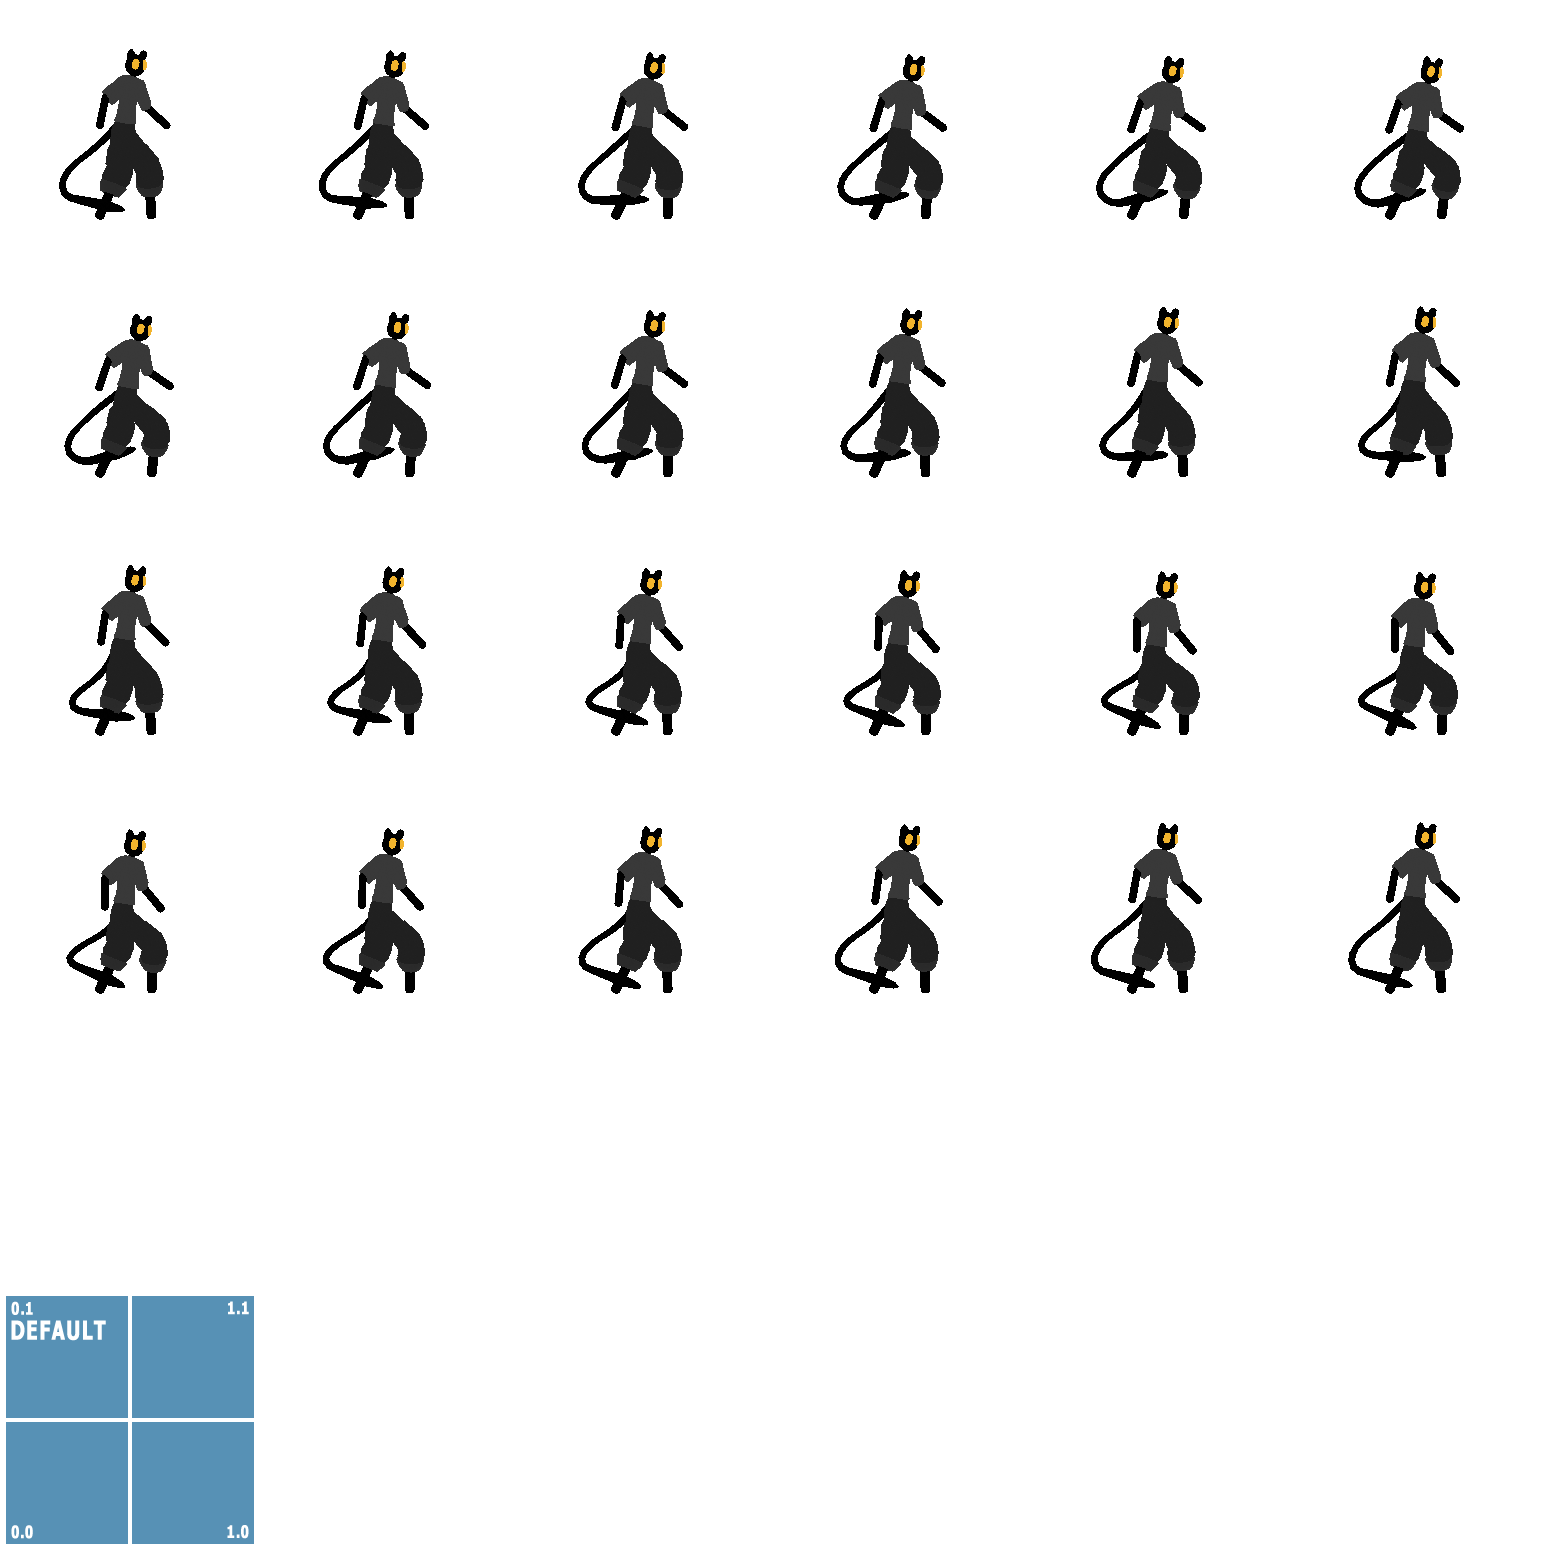
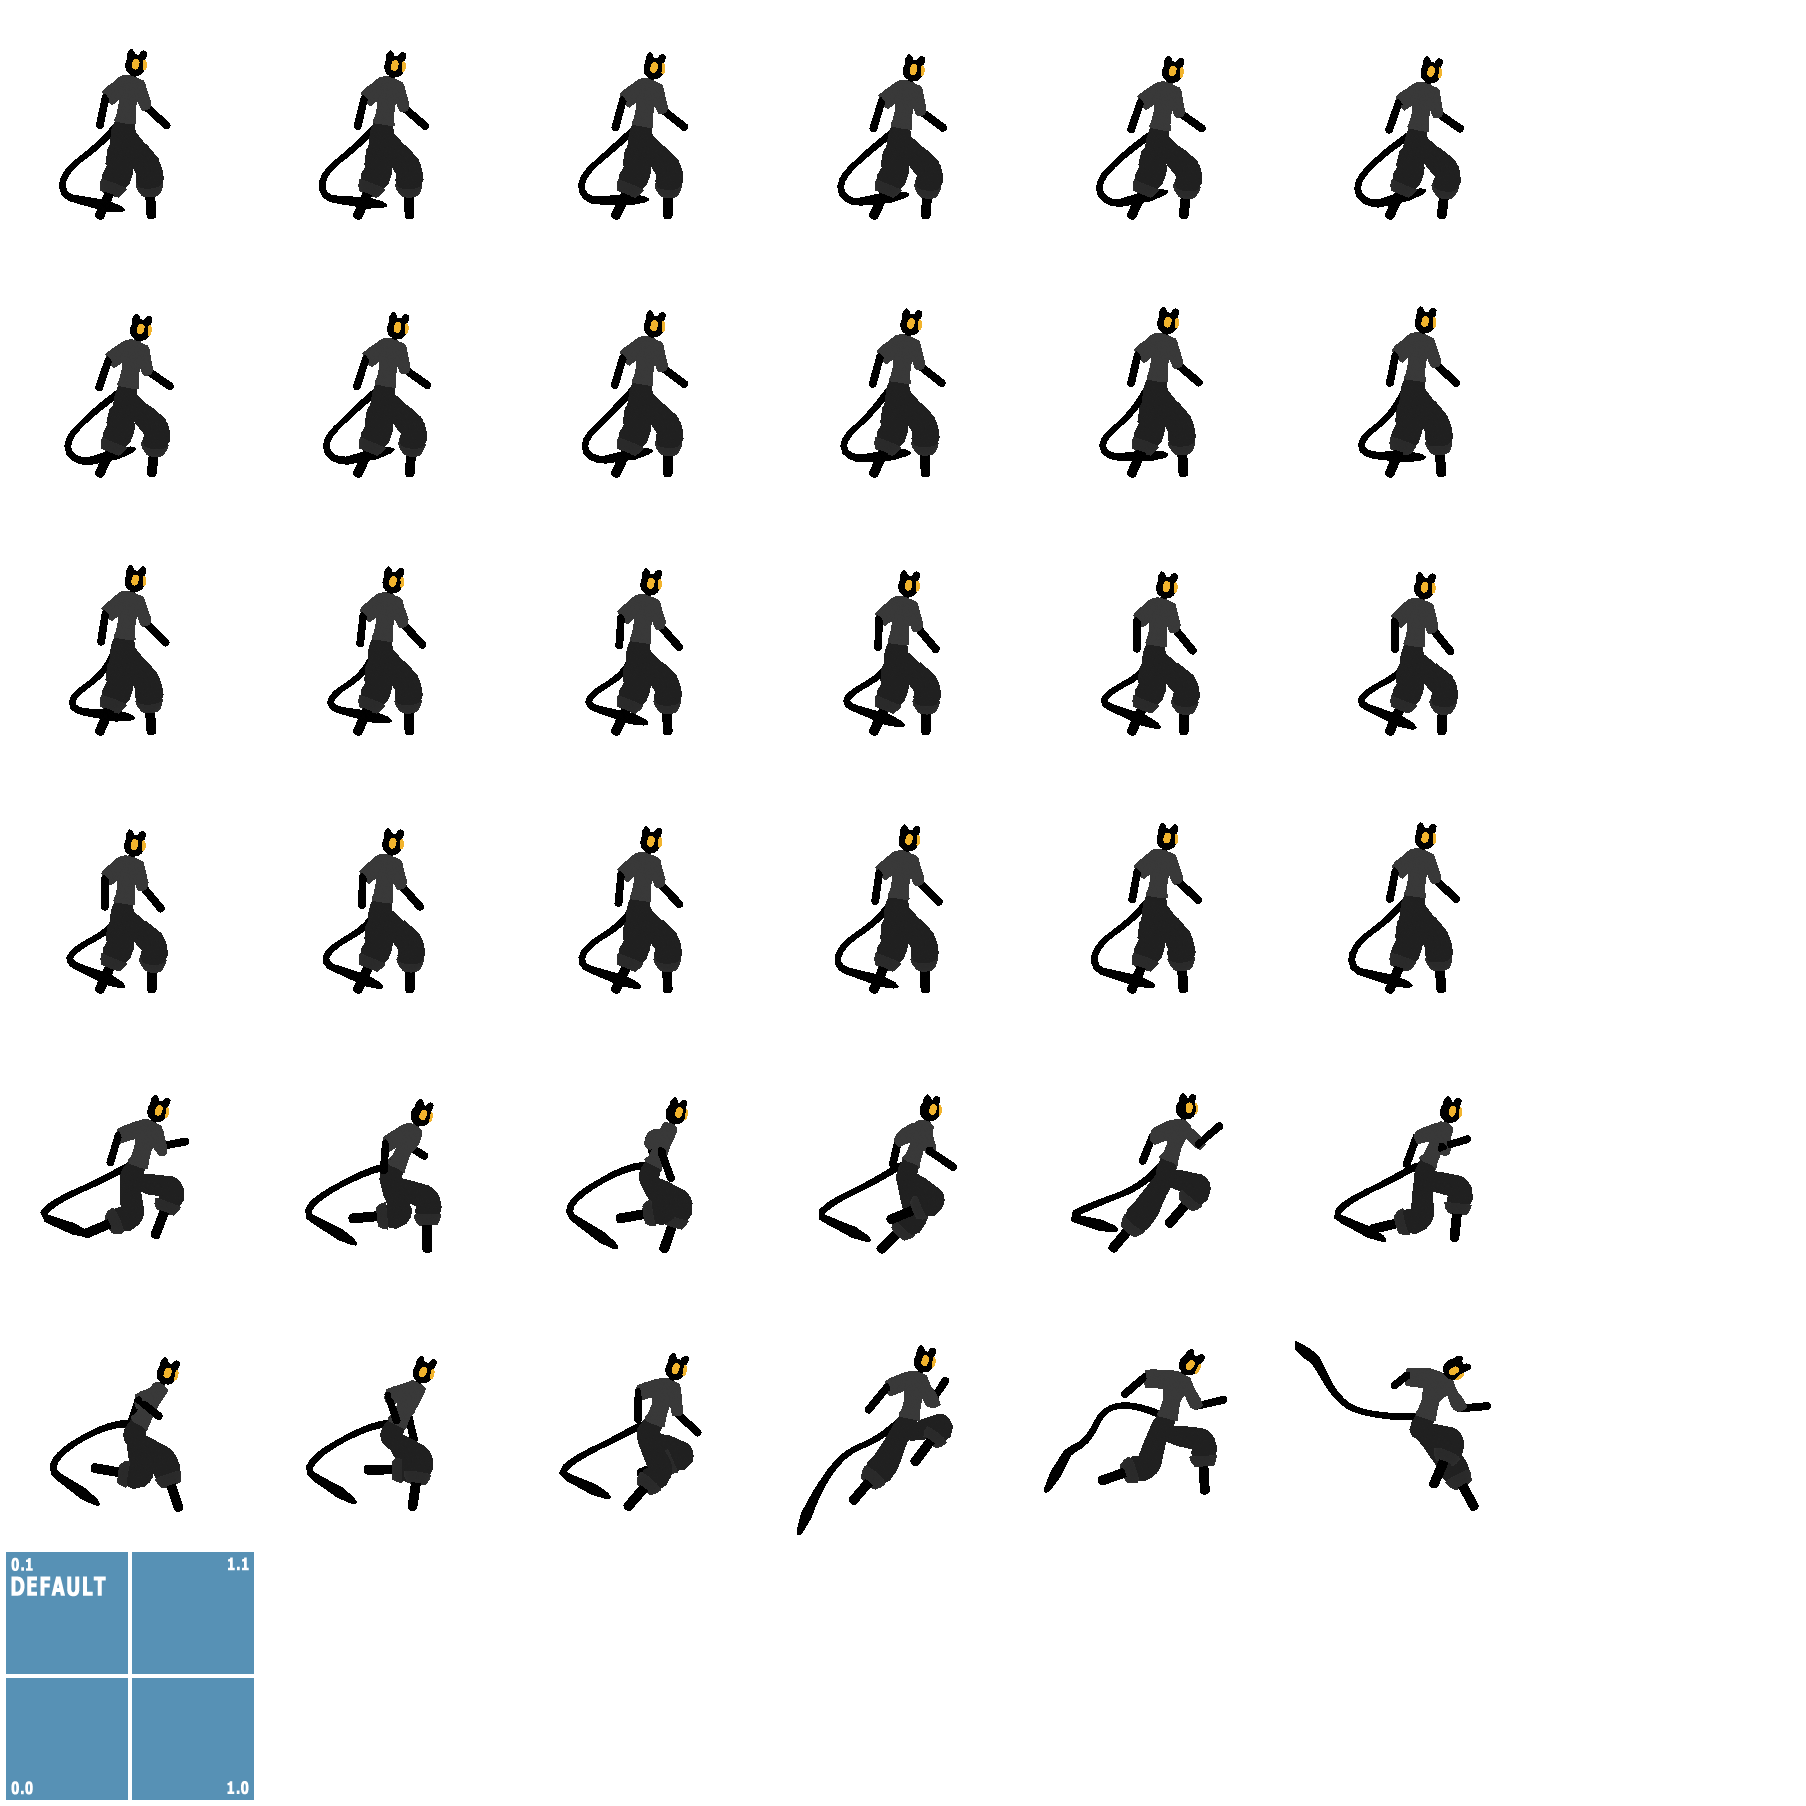
updated game atlas with run and jump

diff --git a/Engine/Source/ECS/Systems/SpriteRenderer.cpp b/Engine/Source/ECS/Systems/SpriteRenderer.cpp
@@ -105,8 +105,6 @@ void SpriteRenderer::LoadSpriteAtlas(const std::string& imagePath, const std::st
 
 	nlohmann::json anims = jsonData.at("animations");
 	for (auto& anim : anims) {
-		Logger::Print("Anim: {}", anim.at("name").get<std::string>());
-
 		glm::vec2 animWidthHeight = glm::vec2(anim.at("size").at("w"), anim.at("size").at("h"));
 		auto animFrames = anim.at("frames");
 		std::vector<SpriteAtlasData> animFramesData;
